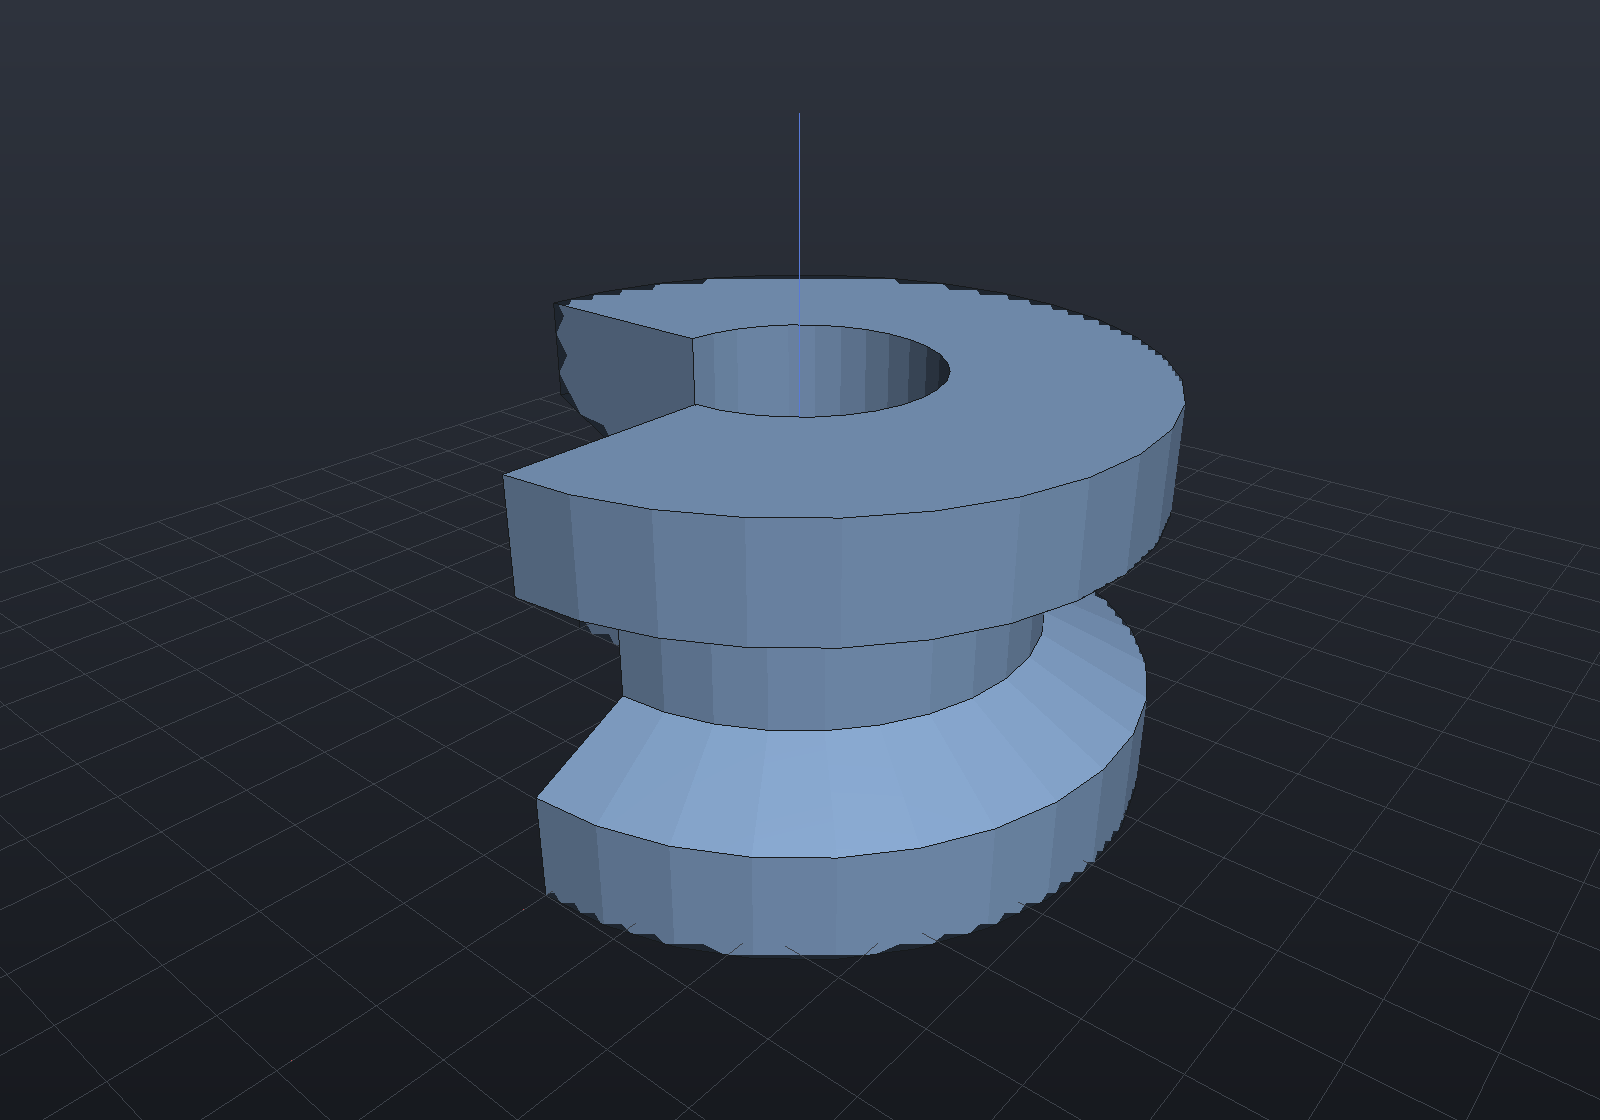
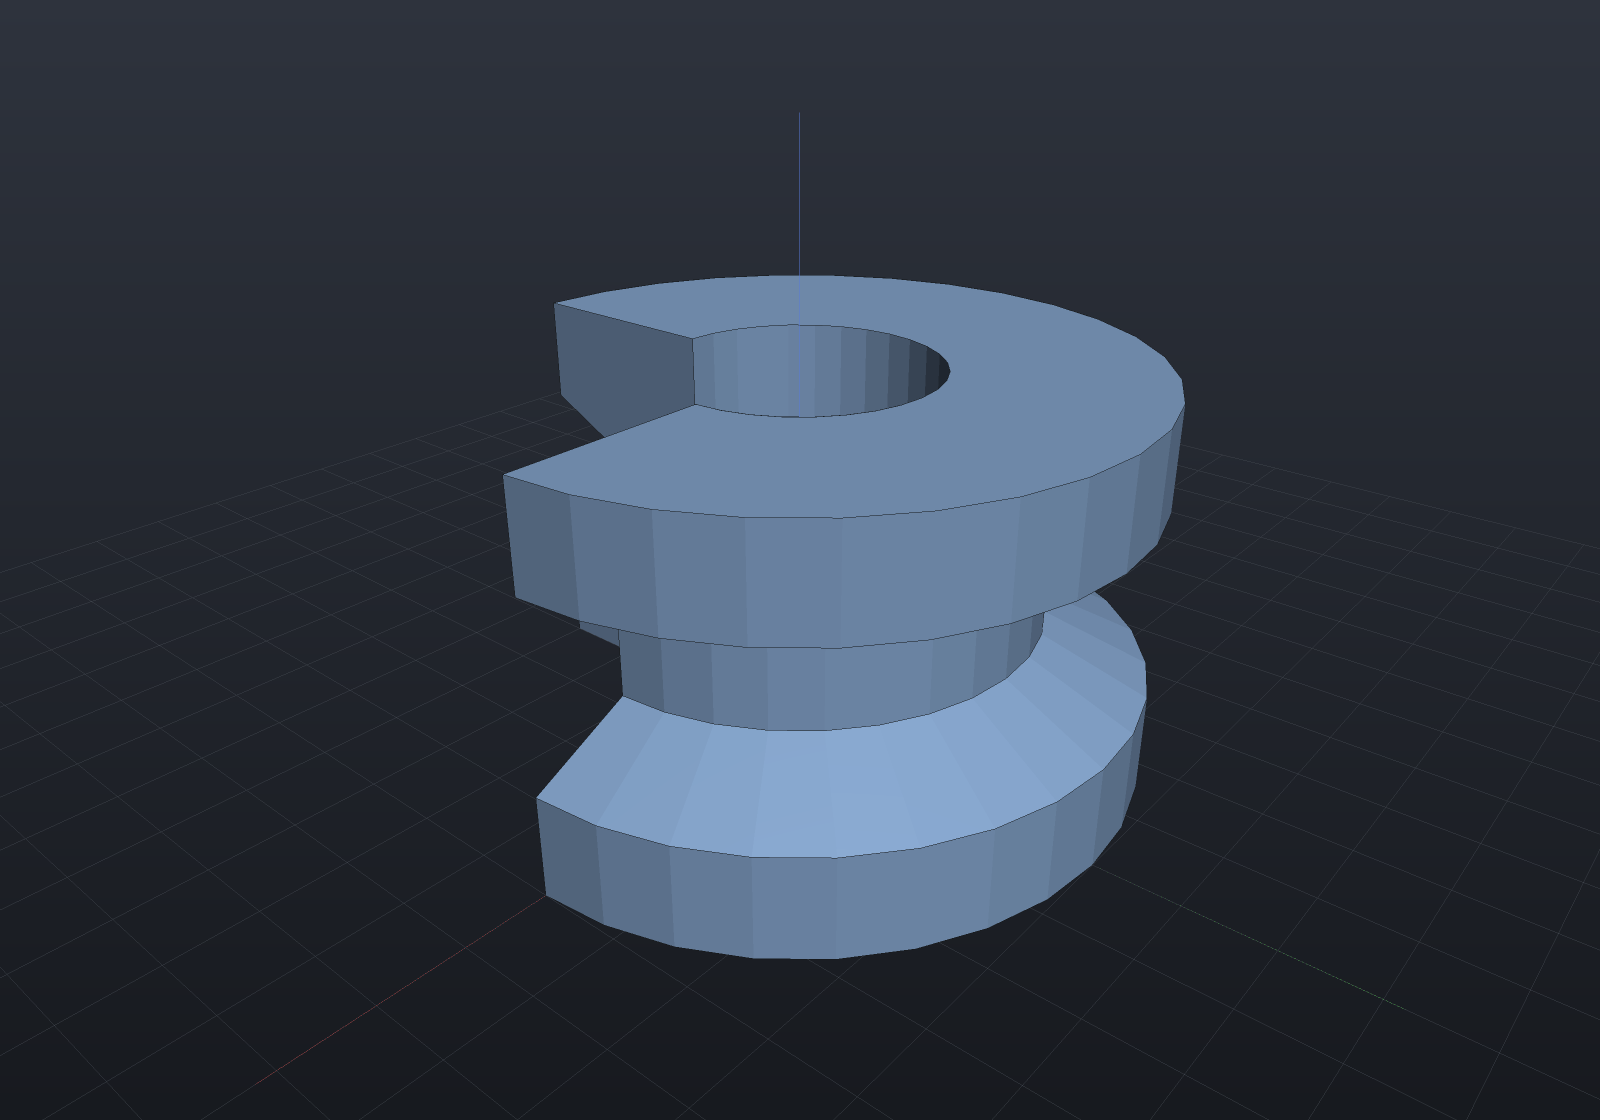
Offscreen render quality: 24-bit depth, 2x supersampling, scene-scaled frustum
Fixes the jagged black silhouettes in generated documentation: 16-bit depth
plus PolygonOffset(1,1) pushed glancing fills past their own silhouettes
(sawtooth background bites), and the unsampled pbuffer had no AA. Now: depth
24 with 16 fallback, render at 2x + box-downsample (deterministic AA on
ANGLE/WARP where MSAA pbuffers are unreliable), and near/far scaled from
camera + scene bounds replacing the 110-unit distance clamp. All 26 docs
screenshots regenerated via DocsGen.

diff --git a/src/EngrCAD.Viewer/OffscreenRenderer.cs b/src/EngrCAD.Viewer/OffscreenRenderer.cs
@@ -56,10 +56,50 @@ public static class OffscreenRenderer
         ArgumentOutOfRangeException.ThrowIfLessThan(width, 1);
         ArgumentOutOfRangeException.ThrowIfLessThan(height, 1);
 
-        using var egl = EglContext.TryCreate(width, height, out var error)
+        // Render at 2x and box-downsample: deterministic anti-aliasing that works on
+        // every backend (MSAA pbuffers are unreliable under ANGLE/WARP). The projection
+        // uses the aspect ratio only, so the camera framing is identical.
+        const int supersample = 2;
+        using var egl = EglContext.TryCreate(width * supersample, height * supersample, out var error)
             ?? throw new InvalidOperationException($"Offscreen rendering is not available: {error}");
         using var gl = GL.GetApi(new LamdaNativeContext(egl.GetFunction));
-        return Draw(gl, parts, width, height, camera, furniture);
+        var oversized = Draw(gl, parts, width * supersample, height * supersample, camera, furniture);
+        return Downsample(oversized, width, height, supersample);
+    }
+
+    /// <summary>Box-filter downsample of RGBA8 pixels by an integer factor.</summary>
+    private static byte[] Downsample(byte[] source, int width, int height, int factor)
+    {
+        if (factor == 1)
+            return source;
+        int sourceWidth = width * factor;
+        var result = new byte[width * height * 4];
+        int samples = factor * factor;
+        for (int y = 0; y < height; y++)
+        {
+            for (int x = 0; x < width; x++)
+            {
+                int r = 0, g = 0, b = 0, a = 0;
+                for (int sy = 0; sy < factor; sy++)
+                {
+                    int row = ((y * factor + sy) * sourceWidth + x * factor) * 4;
+                    for (int sx = 0; sx < factor; sx++)
+                    {
+                        r += source[row];
+                        g += source[row + 1];
+                        b += source[row + 2];
+                        a += source[row + 3];
+                        row += 4;
+                    }
+                }
+                int destination = (y * width + x) * 4;
+                result[destination] = (byte)(r / samples);
+                result[destination + 1] = (byte)(g / samples);
+                result[destination + 2] = (byte)(b / samples);
+                result[destination + 3] = (byte)(a / samples);
+            }
+        }
+        return result;
     }
 
     /// <summary>Renders <paramref name="parts"/> to a PNG file. See <see cref="Render"/>.</summary>
@@ -102,7 +142,13 @@ public static class OffscreenRenderer
             cam.Distance * Math.Cos(cam.Pitch) * Math.Sin(cam.Yaw),
             cam.Distance * Math.Sin(cam.Pitch));
         var view = LookAt(eye, cam.Target, Vector3d.UnitZ);
-        var proj = Perspective(Math.PI / 4, (double)width / height, 0.1, 200.0);
+        // Frustum scaled from the camera and scene so large scenes neither clip at a
+        // fixed far plane nor need a distance clamp (which cropped scenes wider than
+        // ~100 units when the far plane was a hardcoded 200).
+        double sceneReach = cam.Distance + (bounds.IsEmpty ? 10 : bounds.Size.Length);
+        double nearPlane = Math.Max(cam.Distance * 0.005, 0.01);
+        double farPlane = Math.Max(200.0, sceneReach * 2);
+        var proj = Perspective(Math.PI / 4, (double)width / height, nearPlane, farPlane);
 
         Span<float> matrix = stackalloc float[16];
 
@@ -221,7 +267,7 @@ public static class OffscreenRenderer
     /// <summary>The viewer's first-visit framing: default yaw/pitch, distance from bounds.</summary>
     private static CameraState DefaultCamera(in Aabb bounds) => bounds.IsEmpty
         ? new CameraState(0.7, 0.45, 15.0, (0, 0, 0))
-        : new CameraState(0.7, 0.45, Math.Clamp(bounds.Size.Length * 1.25 + 1, 2, 110), bounds.Center);
+        : new CameraState(0.7, 0.45, Math.Max(bounds.Size.Length * 1.25 + 1, 2), bounds.Center);
 
     // ---- geometry upload ----
 

diff --git a/src/EngrCAD.Viewer/EglContext.cs b/src/EngrCAD.Viewer/EglContext.cs
@@ -154,20 +154,28 @@ internal sealed unsafe class EglContext : IDisposable
 
         _eglBindApi(EGL_OPENGL_ES_API);
 
-        int* configAttribs = stackalloc int[]
+        // 24-bit depth first: with only 16 bits, PolygonOffset(1,1) pushes glancing-angle
+        // fills past their own silhouettes and the background bites through as sawtooth
+        // notches. Fall back to 16 for drivers without a 24-bit pbuffer config.
+        nint config = 0;
+        int configCount = 0;
+        foreach (int depthBits in stackalloc int[] { 24, 16 })
         {
-            EGL_SURFACE_TYPE, EGL_PBUFFER_BIT,
-            EGL_RENDERABLE_TYPE, EGL_OPENGL_ES3_BIT,
-            EGL_RED_SIZE, 8,
-            EGL_GREEN_SIZE, 8,
-            EGL_BLUE_SIZE, 8,
-            EGL_ALPHA_SIZE, 8,
-            EGL_DEPTH_SIZE, 16,
-            EGL_NONE,
-        };
-        nint config;
-        int configCount;
-        if (_eglChooseConfig(display, configAttribs, &config, 1, &configCount) == 0 || configCount < 1)
+            int* configAttribs = stackalloc int[]
+            {
+                EGL_SURFACE_TYPE, EGL_PBUFFER_BIT,
+                EGL_RENDERABLE_TYPE, EGL_OPENGL_ES3_BIT,
+                EGL_RED_SIZE, 8,
+                EGL_GREEN_SIZE, 8,
+                EGL_BLUE_SIZE, 8,
+                EGL_ALPHA_SIZE, 8,
+                EGL_DEPTH_SIZE, depthBits,
+                EGL_NONE,
+            };
+            if (_eglChooseConfig(display, configAttribs, &config, 1, &configCount) != 0 && configCount >= 1)
+                break;
+        }
+        if (configCount < 1)
         {
             error = $"eglChooseConfig found no pbuffer-capable GLES3 config (eglGetError=0x{_eglGetError():X})";
             return null;

diff --git a/todo.md b/todo.md
@@ -416,12 +416,12 @@ The reference open-source B-Rep kernel. Checklist of its capabilities against ou
   renders a scene to PNG with no window via a direct EGL-pbuffer context over Avalonia's
   ANGLE natives (`OffscreenRenderer` + `EglContext`, `PngWriter`). This is the viewer
   self-verification loop — tests and agents render + inspect pixels instead of
-  screenshotting the demo app. Follow-ups (docs-site findings): `EglContext` requests
-  16-bit depth while the renderer uses `PolygonOffset(1,1)` → sawtooth silhouette
-  notching on far parts (request depth 24 with 16 fallback and/or reduce the slope
-  factor; regenerate docs PNGs after — `dotnet run --project tools/EngrCAD.DocsGen --
-  docs`); `DefaultCamera` clamps distance at 110 world units so scenes wider than
-  ~100 crop; `Part.DisplayMode` and section planes are ignored offscreen.
+  screenshotting the demo app. Render-quality fixes ✅ done: 24-bit depth (16
+  fallback) kills the PolygonOffset silhouette notching; 2× supersample +
+  box-downsample gives deterministic anti-aliasing on every backend (MSAA pbuffers
+  are unreliable under ANGLE/WARP); frustum near/far now scale from camera + scene
+  so the 110-unit distance clamp is gone (large scenes no longer crop). Remaining:
+  `Part.DisplayMode` and section planes are ignored offscreen.
 - [ ] **Extract a shared viewer render-core** (from a code-quality review) —
   `OffscreenRenderer` deliberately duplicates ~150 lines from `ViewportControl`
   (shader source strings, `LookAt`/`Perspective`/`WriteColumnMajor`, grid/axes build)
